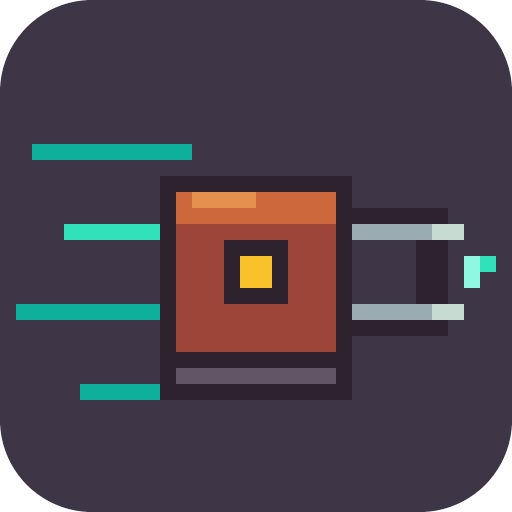
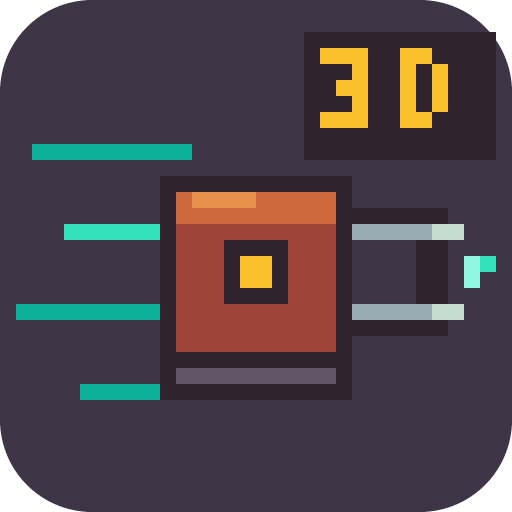
M1: the first-person presentation of the whole slice
The Rammer in every state (stalk, crouched windup with the lane dashed then
locked, charge with its plume, skid with steam, stunned wobble, stripped limp,
crackle, wreck debris), the tear burst, the towed booster on its cable in the
mirror and a tether that whips into view on turns, the bolt (the claw's ratchet
twist), the Burn (teal lane, FOV push, claw coil, wall stun), the speed stack
(FOV, claw glow and ring, hum, edge smear, speed lines, grit), positional sound,
gate warnings, hints in the world, edge markers, results with best clear, the
title attract mode, settings, the tuning panel; scripted scenes for every state;
the app icon with a 3D badge.

diff --git a/src/render3d/actors.ts b/src/render3d/actors.ts
@@ -343,6 +343,8 @@ export interface ClawPose {
   /** hidden while looking back */
   hidden: boolean;
   stunned: boolean;
+  /** towing: how far the part has swung off straight-behind (rad, + = to your right), else null */
+  towSwing: number | null;
 }
 
 export class ClawRig {
@@ -362,6 +364,10 @@ export class ClawRig {
   private twist = 0;
   private open = 0.4;
   private kick = 0;
+  /** the tow cable whipping into the lower frame when the part swings wide on a turn */
+  private tether: THREE.Line;
+  private tetherPts = new Float32Array(8 * 3);
+  private swingSide = 0;
 
   constructor(models: ModelSet) {
     this.model = instance(models.get('claw'));
@@ -388,6 +394,12 @@ export class ClawRig {
     this.halo = new THREE.Points(g, this.haloMat);
     this.halo.frustumCulled = false;
     this.model.add(this.halo);
+    const tg = new THREE.BufferGeometry();
+    tg.setAttribute('position', new THREE.BufferAttribute(this.tetherPts, 3));
+    this.tether = new THREE.Line(tg, new THREE.LineBasicMaterial({ color: pal(C.gold2) }));
+    this.tether.frustumCulled = false;
+    this.tether.visible = false;
+    this.anchor.add(this.tether);
     this.anchor.name = 'claw-anchor';
   }
 
@@ -447,5 +459,25 @@ export class ClawRig {
     (this.halo.geometry.getAttribute('position') as THREE.BufferAttribute).needsUpdate = true;
     this.haloMat.color.copy(c);
     this.halo.visible = pose.tier !== 'crawl' || pose.revving;
+    // the tether: the cable from your back runs past you; when the towed part swings wide on a turn
+    // it whips into the bottom corner of the view on that side (THREEJS-NOTES / M1 step 3)
+    const swingWant = pose.towSwing === null ? 0 : Math.max(-1, Math.min(1, pose.towSwing / 0.45));
+    this.swingSide = lerp(this.swingSide, swingWant, 1 - Math.exp(-dt / 0.06));
+    const k = Math.max(0, Math.abs(this.swingSide) - 0.25) / 0.75;
+    this.tether.visible = pose.towSwing !== null && k > 0.01 && !pose.hidden;
+    if (this.tether.visible) {
+      const side = Math.sign(this.swingSide);
+      const n = this.tetherPts.length / 3;
+      for (let i = 0; i < n; i++) {
+        const t = i / (n - 1);
+        // from behind the camera, low, out to the corner and into the frame as the swing grows
+        const x = side * (0.55 - t * 0.2 * k), y = -0.5 + t * (0.2 + 0.08 * k) - Math.sin(t * Math.PI) * 0.05;
+        const z = 0.35 - t * (0.6 + 0.3 * k) + Math.sin(time * 23 + t * 6) * 0.004;
+        this.tetherPts[i * 3] = x;
+        this.tetherPts[i * 3 + 1] = y;
+        this.tetherPts[i * 3 + 2] = z;
+      }
+      (this.tether.geometry.getAttribute('position') as THREE.BufferAttribute).needsUpdate = true;
+    }
   }
 }

diff --git a/src/app/debug.ts b/src/app/debug.ts
@@ -13,7 +13,7 @@ export const SCENES = [
   'rest', 'slip-pass', 'charged-behind', 'wall-clank', 'cleared',
   // every state Milestone 1 adds
   'title', 'settings', 'play', 'crawl', 'cruise', 'slip', 'telegraph-track', 'telegraph-lock', 'hitstop',
-  'tear', 'towing', 'bolting', 'booster', 'burn', 'burn-stun', 'skid', 'stripped', 'gate-warn', 'wreck', 'joust',
+  'tear', 'towing', 'tow-swing', 'bolting', 'booster', 'burn', 'burn-stun', 'skid', 'stripped', 'gate-warn', 'wreck', 'joust',
   'hurt', 'scrapped', 'pause', 'tuning', 'flat', 'hud-hidden', 'look-back',
 ] as const;
 export type SceneName = (typeof SCENES)[number];
@@ -146,6 +146,15 @@ export function scene(app: App, name: SceneName) {
       r.cd = 99;
       run(play, app, 24, F(1, -0.15));
       if (name === 'bolting') run(play, app, 18, F(1, -0.1, false, true));
+      break;
+    }
+    case 'tow-swing': {
+      // towing through a hard left turn: the part swings wide and its cable whips into view
+      quiet(play);
+      place(play, 80, 310, 0, 200);
+      w.player.tow = { part: 'booster', x: 66, y: 310, vx: 0, vy: 0, cracked: false };
+      run(play, app, 20, EAST);
+      run(play, app, 14, (w) => F(Math.cos(w.player.heading - 1.2), Math.sin(w.player.heading - 1.2)));
       break;
     }
     case 'booster':

diff --git a/src/render3d/stage.ts b/src/render3d/stage.ts
@@ -8,6 +8,7 @@ import { C } from '../data/palette';
 import { laneLength } from '../sim/arena';
 import { laneOf } from '../sim/rammer';
 import { revving } from '../sim/rip';
+import { wrapAngle } from '../data/dirs';
 import type { SimEvent } from '../sim/events';
 import type { World } from '../sim/world';
 import { Arena3D } from './arena3d';
@@ -281,6 +282,7 @@ export class Stage {
     this.claw.sync(this.rig.cam, {
       tier: p.tier, lunge, burn: !!p.rip?.burn, revving: revving(w), bolt: p.bolt, boltTime: t.boltTime,
       omega: p.omega, speed01: p.speed / t.burnMax, hidden: this.rig.mode !== 'fp' || this.rig.look > 0.4, stunned: p.stun > 0,
+      towSwing: p.tow ? wrapAngle(Math.atan2(p.tow.y - py, p.tow.x - px) - (ph + Math.PI)) * -1 : null,
     }, time, dt);
 
     // the Burn lane
